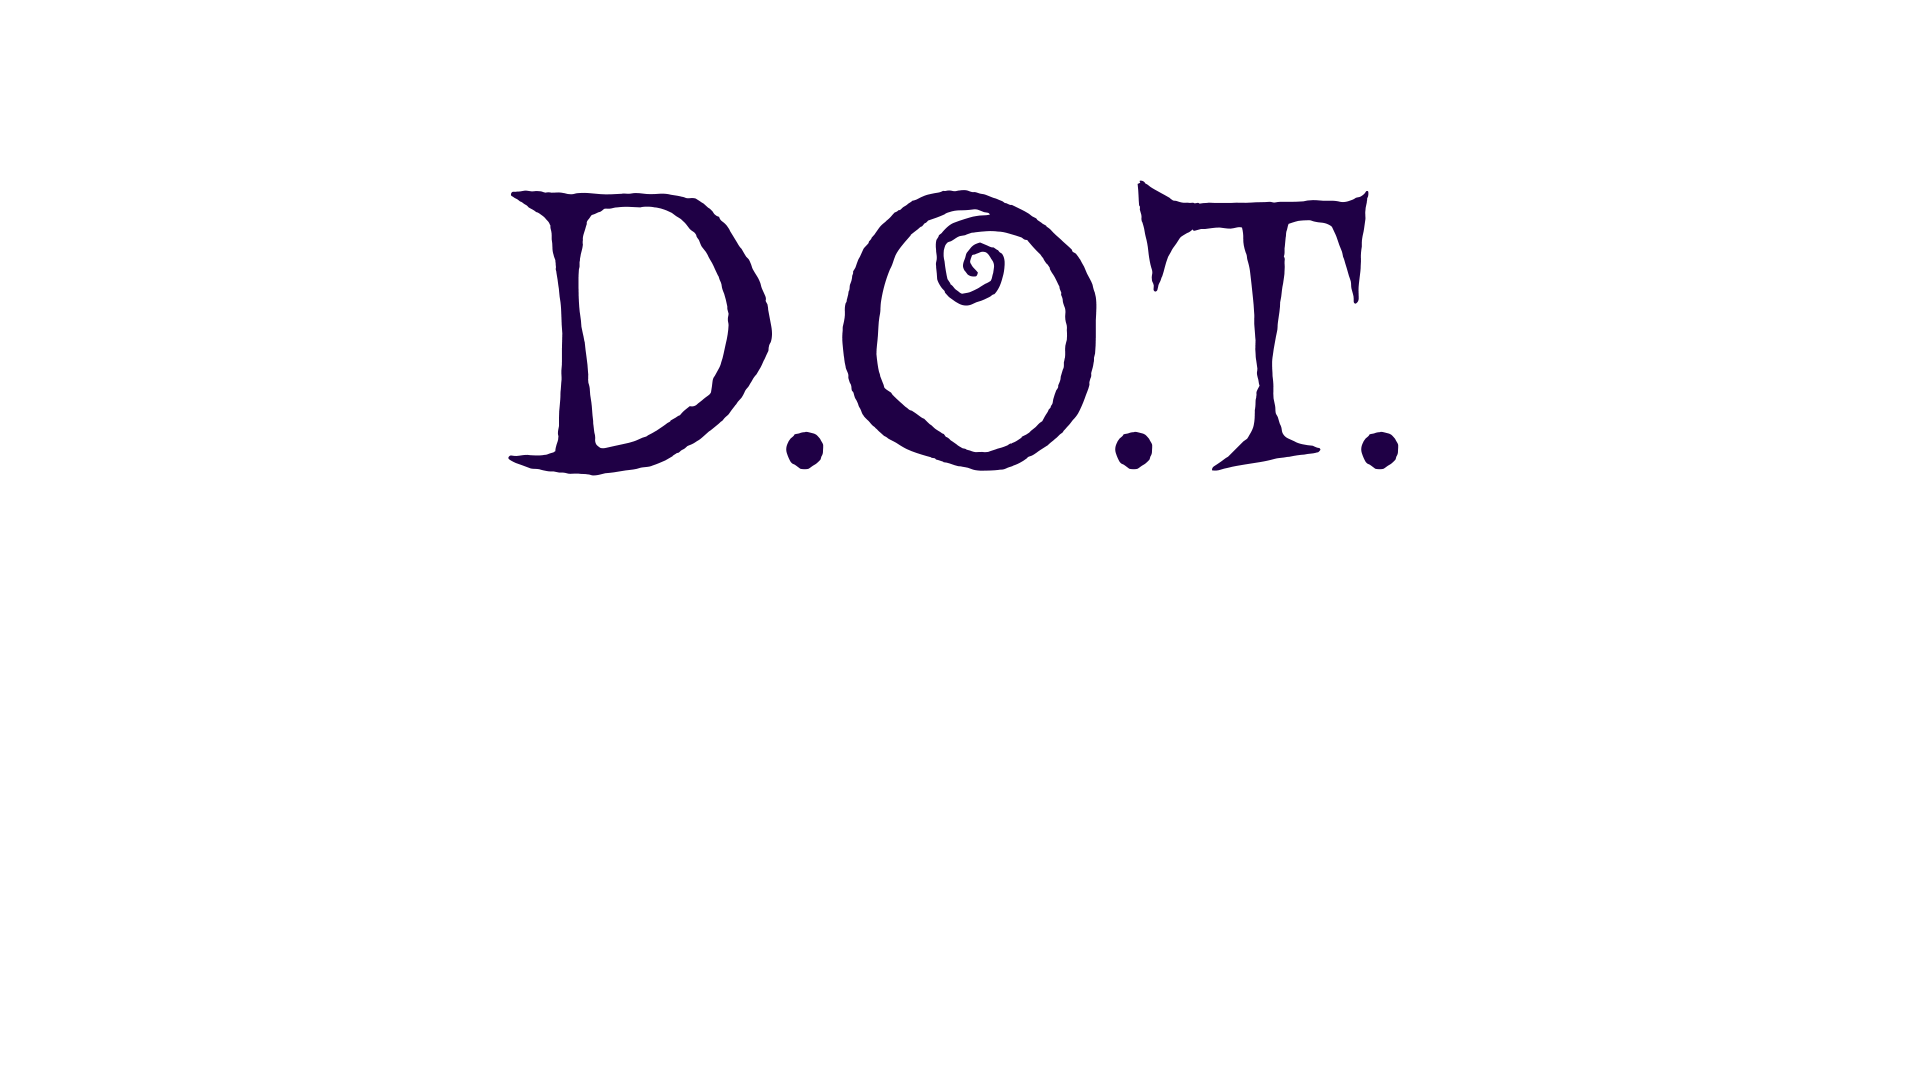
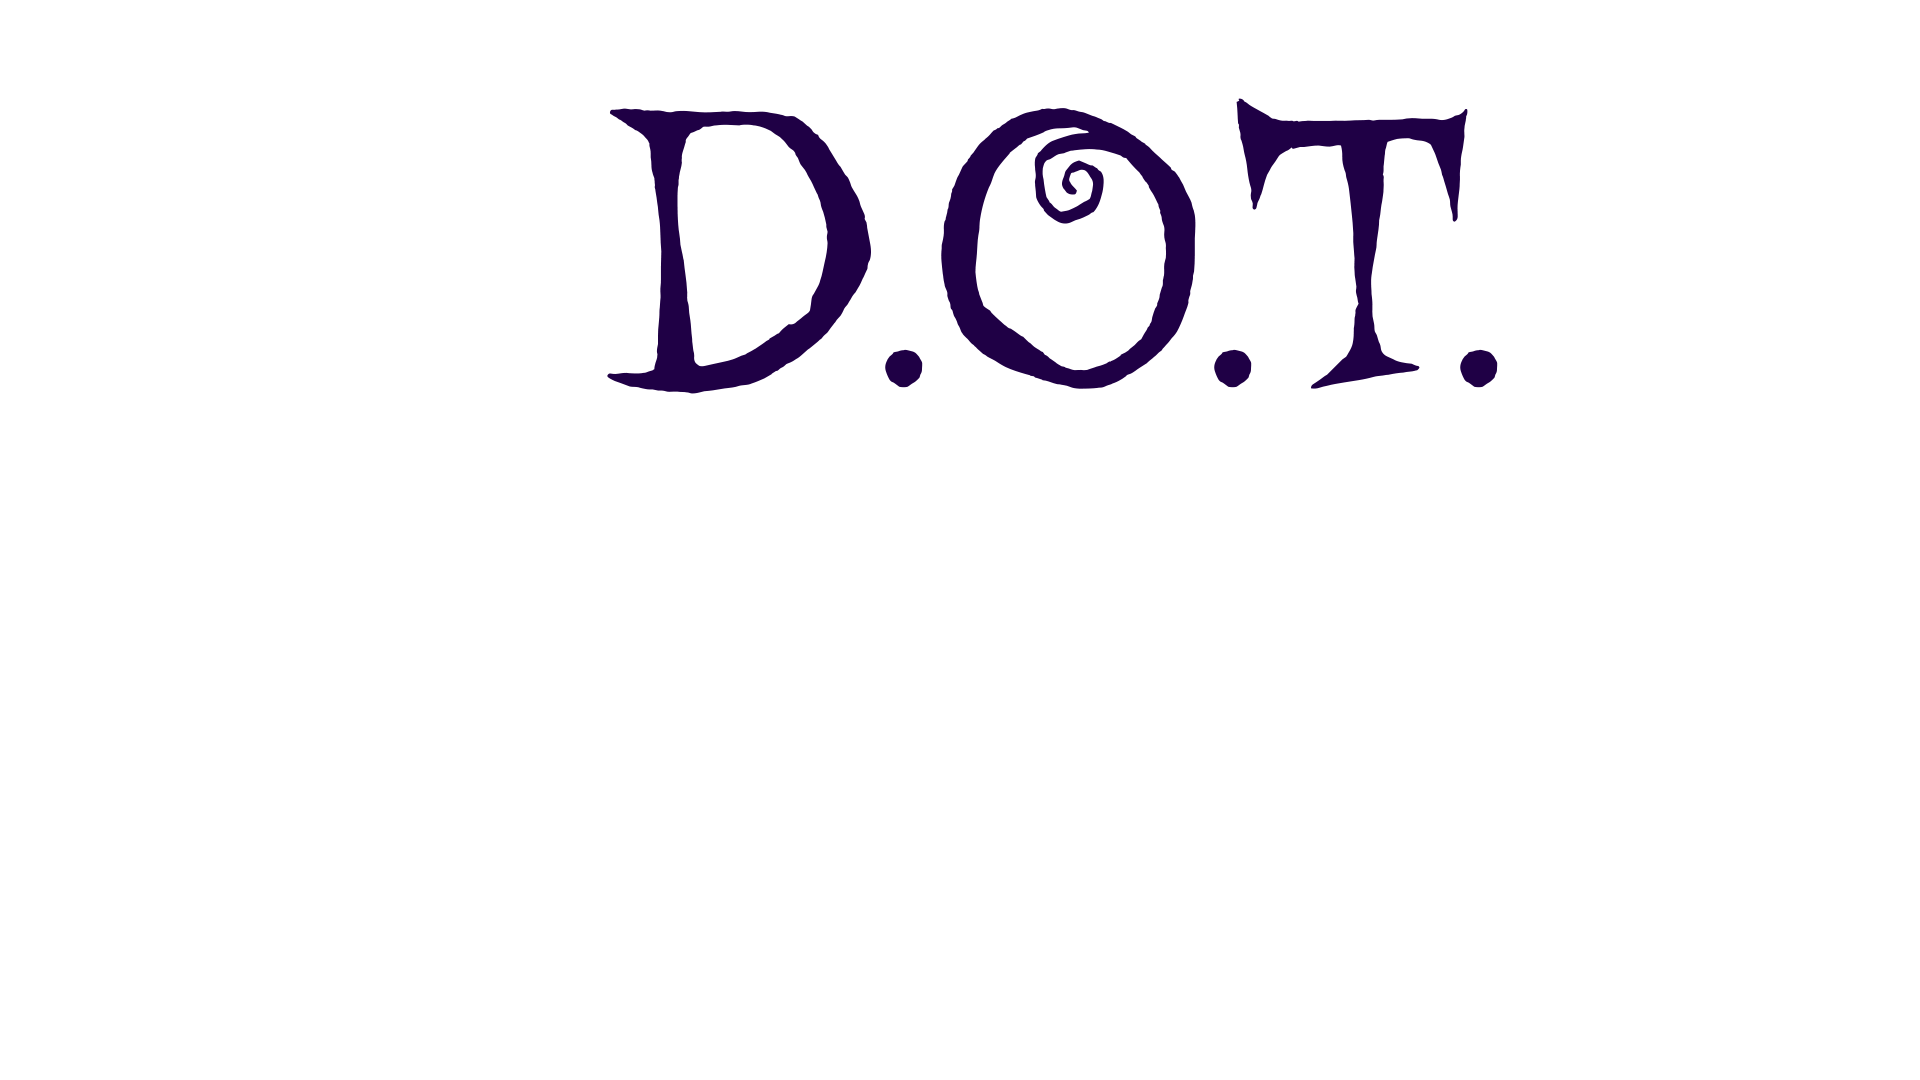
splash, credits

Changed region(s): [[0.25, 0.0917, 0.7812, 0.4583]]

diff --git a/static/index.html b/static/index.html
@@ -5,11 +5,11 @@
         <link href="https://fonts.googleapis.com/css?family=Architects+Daughter&display=swap" rel="stylesheet"> 
         <link rel="stylesheet" href="/css/game.css">
     </head>
-    <body onload="start()">
+    <body>
         <div class="loading" id="loading">
-            <div class="title">
-                <div>
-                <a href="/game.html">Play</a>
+            <div class="splash">
+                <div  style="text-align: center;">
+                <a href="/game.html">Play</a> |
                 <a href="/vote.html">React</a>
                 </div>
                 <div style="text-align: center;">
@@ -17,6 +17,9 @@
                     <div style="font-size: 72px;">
                     ggj2020.herokuapp.com
                     </div>
+                </div>
+                <div  style="text-align: center;font-size: 60px;">
+                <a href="/credits.html">Credits</a>
                 </div>
             </div>
         </div>

diff --git a/static/credits.html b/static/credits.html
@@ -1,0 +1,11 @@
+<!DOCTYPE html>
+<html>
+    <head>
+        <link href="https://fonts.googleapis.com/css?family=Griffy&display=swap&subset=latin-ext" rel="stylesheet"> 
+        <link href="https://fonts.googleapis.com/css?family=Architects+Daughter&display=swap" rel="stylesheet"> 
+        <link rel="stylesheet" href="/css/game.css">
+    </head>
+    <body>
+        <a href="/index.html"><img src="art/Credits.png"></a>
+    </body>
+</html>

diff --git a/static/css/game.css b/static/css/game.css
@@ -29,8 +29,21 @@ body
 .loading .title
 {
     position: absolute;
-    top: 540px;
+    top: 440px;
     left: 700px;
+}
+
+.loading .splash
+{
+    position: absolute;
+    top: 200px;
+    left: 700px;
+}
+
+.splash
+{
+    font-family: 'Griffy', cursive;
+    font-size: 500%;
 }
 
 .game
